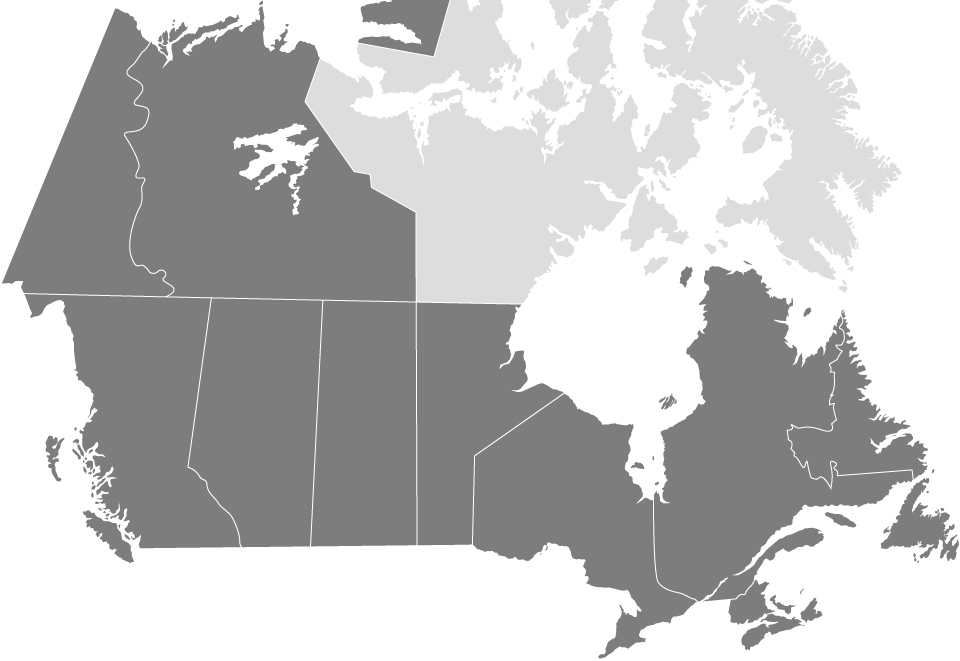
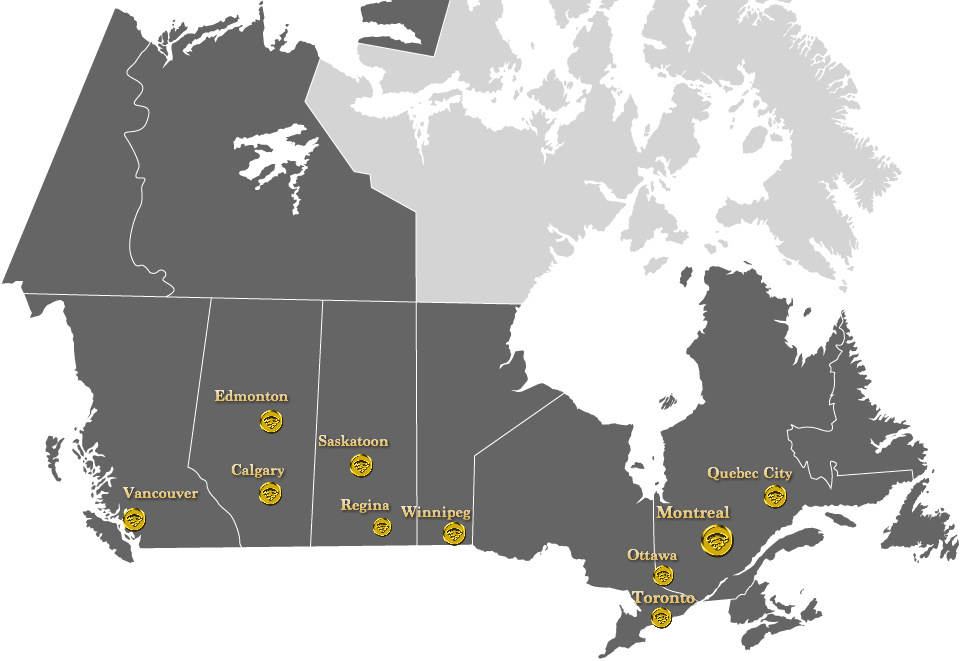
modified 'Locations' using image map

diff --git a/index.html b/index.html
@@ -35,7 +35,7 @@
 
 <body id="page-top" data-spy="scroll" data-target=".navbar-fixed-top">
 
-	<!-- Navigation -->
+    <!-- Navigation -->
     <nav class="navbar navbar-custom navbar-fixed-top" role="navigation">
         <div class="container">
             <div class="navbar-header">
@@ -160,7 +160,6 @@
                 <div class="col-lg-12 clickable text-center">
                     <a class="btn-light btn-block btn-lg" data-toggle="modal" data-target="#register"><h3><b>Apply for connection</b></h3></a>
                     <!--<h3>Connection in 1 day
-
                     </h3>
                     <p>Our experts will install additional equipment to your current Wi-Fi network, set up and provide access to your personal account, and all this in 1 day!</p>
                 </div>--> 
@@ -253,14 +252,32 @@
     <section id = "locations" class="locations">
         <div class="container">
             <div class="row text-center">
-                <div class="col-lg-10 col-lg-offset-1">
+                <div class="col-lg-12 col-xs-12">
+                    <br>
+                    <!-- map -->
+                    <img id="map" alt="" src="img/canada.jpg" usemap="#canadamap" width="100%" height="auto" alt=""/>
+                    <map id="canadamap" name="canadamap">
+                    <area title="Yukon" alt="yukon" coords="2,283,115,8,137,18,148,42,125,73,142,88,132,103,148,112,141,128,123,131,123,134,138,165,133,180,143,180,140,184,139,203,126,241,133,268,143,267,152,276,161,271,163,274,162,279,173,290,166,296,25,292,3,283" shape="poly" href="#yukon" /> 
+                    <area title="British Columbia" alt="British Columbia" coords="25,294,210,298,185,469,205,482,222,512,237,534,239,547,138,548,131,565,83,527,84,476,54,482,37,436,74,428,72,333,59,302,30,322,25,295" shape="poly" href="#britishcolumbia" />
+                    <area title="Alberta" alt="Alberta" coords="212,299,321,301,310,547,241,547,240,532,206,479,189,465,212,299" shape="poly" href="#alberta" />
+                    <area title="Northwest Territories" alt="NWT" coords="416,301,416,211,371,188,370,174,353,172,304,101,319,57,359,42,433,56,450,0,359,1,358,39,318,53,315,41,265,0,256,0,256,14,172,17,128,71,147,87,136,103,150,108,149,126,126,134,142,166,137,176,146,178,143,188,143,206,131,244,138,262,153,268,172,269,165,279,178,287,171,296,415,301,416,301,416,302" shape="poly" href="#northwestterritories" />
+                    <area title="Saskatchewan" alt="SK" coords="416,544,415,303,322,301,312,546,417,544" shape="poly" href="#saskatchewan" />
+                    <area title="Manitoba" alt="Manitoba" coords="521,304,416,302,418,544,472,544,474,453,563,393,527,376,523,349,511,349,521,304" shape="poly" href="#manitoba" />
+                    <area title="Ontario" alt="Ontario" coords="565,394,475,456,474,544,484,552,530,562,552,545,573,559,586,585,620,591,597,658,606,658,646,641,696,602,655,583,652,500,634,422,565,394" shape="poly" href="#ontario" />
+                    <area title="Quebec" alt="Quebec" coords="654,494,658,580,698,601,735,598,740,592,745,592,754,576,856,527,912,482,912,471,837,476,832,465,832,490,821,478,816,480,791,455,786,439,786,427,792,422,830,429,830,422,835,418,833,405,827,404,827,397,833,374,826,370,837,350,834,343,842,340,837,327,841,317,805,356,787,336,815,308,744,258,680,266,658,397,651,455,655,494" shape="poly" data-toggle="modal" data-target="#quebec"/>
+                    <area title="Newfoundland" alt="Newfoundland" coords="844,310,871,380,870,401,914,425,937,472,930,505,952,508,959,542,955,562,915,564,910,549,877,547,900,499,917,482,914,468,839,474,837,461,829,460,830,484,822,475,812,473,808,459,800,460,790,431,835,432,839,406,835,393,834,363,843,351,845,331,842,328,844,312" shape="poly" href="#newfoundland" />
+                    <area title="New brunswick" alt="New brunswick" coords="730,622,728,610,731,599,737,599,741,595,746,594,755,579,760,584,770,582,763,592,768,608,774,611,740,625,730,622" shape="poly" href="#newbrunswick" />
+                    <area title="Prince Edward Island" alt="PEI" coords="785,603,794,605,789,617,768,598,775,594,787,604" shape="poly" href="#pei" />
+                    <area title="Nova scotia" alt="Nova Scotia" coords="751,650,825,615,803,583,799,592,800,617,790,619,783,617,771,615,761,621,738,637,740,647,751,651" shape="poly" href="#novascotia" /></map>
+                    <p><!-- end map --></p>
+                    <br>
+                <!--<div class="col-lg-10 col-lg-offset-1">
                     <br><br>
                     <h2> </h2>
                     <div class="row">
-                        <div class="col-md-4 col-sm-4">
+                        <div class="col-md-12 col-xs-12">
                             <div class="service-item">
                                 <img src="img/montreal.png" alt="montreal" height="100px" align="center">
-
                                 <h3>
                                     <strong>Official Partner</strong>
                                 </h3>
@@ -271,34 +288,29 @@
                                 </h4>
                             </div>
                         </div>
-                        <div class="col-md-4 col-sm-4">
+                        <div class="col-md-6 col-sm-6">
                             <div class="service-item">
                              <img src="img/vancouver.jpg" alt="vancouver" height="100px" align="center">
                                 <h3>
-                                    <strong></strong>
+                                    <strong>Region Representative</strong>
                                 </h3>
                                 <h4>
-                                <!--
                                 <ul class="list-unstyled" style="display: inline-block;text-align: left;">
                                     <li><i class="fa fa-phone fa-fw"></i>(514) 983-6609<b> &nbsp;&nbsp;Rustam Abdullayev</b> </li>
-                                </ul> 
-                                -->
-                                <br>
+                                </ul>
                                 </h4>
                             </div>
                         </div>
-                        <div class="col-md-4 col-sm-4">
+                        <div class="col-md-4 col-sm-6">
                             <div class="service-item">
                              <img src="img/toronto.gif" alt="toronto" height="100px" align="center">
-                                <h3>
-                                    <strong></strong>
-                                </h3>
                                 <h4>
-                                    <br>
+                                    <strong>Region Representative</strong>
+                                <p>TBD</p>
                                 </h4>
                             </div>
+                        </div>-->
                         </div>
-                    
                     </div>
                     <!-- /.row (nested) -->
                 </div>
@@ -328,7 +340,7 @@
             <div class="row">
                 <div class="col-lg-10 col-lg-offset-1 text-center">
                     <h3><strong>Social Boom</strong>
-               		</h3>
+                    </h3>
                     <h4><p>Montreal, QC Canada</p>
                      <ul class="list-unstyled" style="display: inline-block;text-align: left;">
                                     <li><i class="fa fa-phone fa-fw"></i> (514) 402-2276<b> &nbsp;&nbsp;Oleksandr Sinitsyn </b></li>
@@ -377,6 +389,35 @@
                             <li><i class="fa fa-phone fa-fw"></i> (438) 989-4485<b> &nbsp;&nbsp;Georgy Venik</b></li>
                             <li><i class="fa fa-envelope-o fa-fw"></i><b>&nbsp;&nbsp;info@socialboom.ca</b></li>
                     </ul>
+                </div>
+            </div><!-- /.modal-content -->
+        </div><!-- /.modal-dialog -->
+    </div><!-- /.modal -->
+
+    <div class = "modal fade" id ="quebec" role ="dialog">
+        <div class ="modal-dialog">
+            <div class = "modal-content">
+                <div class ="modal-header">
+                <button type="button" class="close" data-dismiss="modal" aria-label="Close"><span aria-hidden="true">&times;</span></button>
+                    
+                </div>
+                <div class = "modal-body">
+                    <div class="row text-center">
+                        <div class="col-md-12 col-xs-12">
+                            <div class="service-item">
+                                <img src="img/montreal.png" alt="montreal" height="100px" align="center">
+
+                                <h3>
+                                    <strong>Official Partner</strong>
+                                </h3>
+                                <h4>
+                                <ul class="list-unstyled" style="display: inline-block;text-align: left;">
+                                    <li><i class="fa fa-phone fa-fw"></i>(514) 777-2000 <b>&nbsp;&nbsp; Sam Karanta</b> </li>
+                                </ul>
+                                </h4>
+                            </div>
+                        </div>
+                    </div>
                 </div>
             </div><!-- /.modal-content -->
         </div><!-- /.modal-dialog -->
@@ -436,7 +477,6 @@
     <!-- Jssor slider scripts-->
     <script type="text/javascript" src="js/jssor.slider.mini.js"></script>
     <script>
-
         jQuery(document).ready(function ($) {
             var options = {
                 $AutoPlay: true,                                            
@@ -451,7 +491,6 @@
                     $Steps: 1,                                      //[Optional] Steps to go for each navigation request, default value is 1
                     $Scale: false                                   //Scales bullets navigator or not while slider scale
                 },
-
                 $BulletNavigatorOptions: {                                //[Optional] Options to specify and enable navigator or not
                     $Class: $JssorBulletNavigator$,                       //[Required] Class to create navigator instance
                     $ChanceToShow: 2,                               //[Required] 0 Never, 1 Mouse Over, 2 Always
@@ -464,11 +503,9 @@
                     $Scale: false                                   //Scales bullets navigator or not while slider scale
                 }
             };
-
             //Make the element 'slider1_container' visible before initialize jssor slider.
             $("#slider1_container").css("display", "block");
             var jssor_slider1 = new $JssorSlider$("slider1_container", options);
-
             //responsive code begin
             //you can remove responsive code if you don't want the slider scales while window resizes
             function ScaleSlider() {
@@ -480,7 +517,6 @@
                     window.setTimeout(ScaleSlider, 30);
             }
             ScaleSlider();
-
             $(window).bind("load", ScaleSlider);
             $(window).bind("resize", ScaleSlider);
             $(window).bind("orientationchange", ScaleSlider);
@@ -497,12 +533,10 @@
             $(".navbar-fixed-top").removeClass("top-nav-collapse");
         }
     });
-
     // Scrolls to the selected menu item on the page
     $(function() {
         $('a[href*=#]:not([href=#])').click(function() {
             if (location.pathname.replace(/^\//, '') == this.pathname.replace(/^\//, '') || location.hostname == this.hostname) {
-
                 var target = $(this.hash);
                 target = target.length ? target : $('[name=' + this.hash.slice(1) + ']');
                 if (target.length) {
@@ -514,12 +548,40 @@
             }
         });
     });
-
     // Closes the Responsive Menu on Menu Item Click
     $('.navbar-collapse ul li a').click(function() {
         $('.navbar-toggle:visible').click();
     });
     
+    //resizable image map
+    window.onload = function () {
+        var ImageMap = function (map) {
+                var n,
+                    areas = map.getElementsByTagName('area'),
+                    len = areas.length,
+                    coords = [],
+                    previousWidth = 1080;
+                for (n = 0; n < len; n++) {
+                    coords[n] = areas[n].coords.split(',');
+                }
+                this.resize = function () {
+                    var n, m, clen,
+                        x = document.body.clientWidth / previousWidth;
+                    for (n = 0; n < len; n++) {
+                        clen = coords[n].length;
+                        for (m = 0; m < clen; m++) {
+                            coords[n][m] *= x;
+                        }
+                        areas[n].coords = coords[n].join(',');
+                    }
+                    previousWidth = document.body.clientWidth;
+                    return true;
+                };
+                window.onresize = this.resize;
+            },
+            imageMap = new ImageMap(document.getElementById('canadamap'));
+        imageMap.resize();
+    }
     </script>
 
 </body>

diff --git a/fr.html b/fr.html
@@ -254,52 +254,65 @@
     <section id = "locations" class="locations">
         <div class="container">
             <div class="row text-center">
-                <div class="col-lg-10 col-lg-offset-1">
+                <div class="col-lg-12 col-xs-12">
+                    <br>
+                    <!-- map -->
+                    <img id="map" alt="" src="img/canada.jpg" usemap="#canadamap" width="100%" height="auto" alt=""/>
+                    <map id="canadamap" name="canadamap">
+                    <area title="Yukon" alt="yukon" coords="2,283,115,8,137,18,148,42,125,73,142,88,132,103,148,112,141,128,123,131,123,134,138,165,133,180,143,180,140,184,139,203,126,241,133,268,143,267,152,276,161,271,163,274,162,279,173,290,166,296,25,292,3,283" shape="poly" href="#yukon" /> 
+                    <area title="British Columbia" alt="British Columbia" coords="25,294,210,298,185,469,205,482,222,512,237,534,239,547,138,548,131,565,83,527,84,476,54,482,37,436,74,428,72,333,59,302,30,322,25,295" shape="poly" href="#britishcolumbia" />
+                    <area title="Alberta" alt="Alberta" coords="212,299,321,301,310,547,241,547,240,532,206,479,189,465,212,299" shape="poly" href="#alberta" />
+                    <area title="Northwest Territories" alt="NWT" coords="416,301,416,211,371,188,370,174,353,172,304,101,319,57,359,42,433,56,450,0,359,1,358,39,318,53,315,41,265,0,256,0,256,14,172,17,128,71,147,87,136,103,150,108,149,126,126,134,142,166,137,176,146,178,143,188,143,206,131,244,138,262,153,268,172,269,165,279,178,287,171,296,415,301,416,301,416,302" shape="poly" href="#northwestterritories" />
+                    <area title="Saskatchewan" alt="SK" coords="416,544,415,303,322,301,312,546,417,544" shape="poly" href="#saskatchewan" />
+                    <area title="Manitoba" alt="Manitoba" coords="521,304,416,302,418,544,472,544,474,453,563,393,527,376,523,349,511,349,521,304" shape="poly" href="#manitoba" />
+                    <area title="Ontario" alt="Ontario" coords="565,394,475,456,474,544,484,552,530,562,552,545,573,559,586,585,620,591,597,658,606,658,646,641,696,602,655,583,652,500,634,422,565,394" shape="poly" href="#ontario" />
+                    <area title="Quebec" alt="Quebec" coords="654,494,658,580,698,601,735,598,740,592,745,592,754,576,856,527,912,482,912,471,837,476,832,465,832,490,821,478,816,480,791,455,786,439,786,427,792,422,830,429,830,422,835,418,833,405,827,404,827,397,833,374,826,370,837,350,834,343,842,340,837,327,841,317,805,356,787,336,815,308,744,258,680,266,658,397,651,455,655,494" shape="poly" data-toggle="modal" data-target="#quebec"/>
+                    <area title="Newfoundland" alt="Newfoundland" coords="844,310,871,380,870,401,914,425,937,472,930,505,952,508,959,542,955,562,915,564,910,549,877,547,900,499,917,482,914,468,839,474,837,461,829,460,830,484,822,475,812,473,808,459,800,460,790,431,835,432,839,406,835,393,834,363,843,351,845,331,842,328,844,312" shape="poly" href="#newfoundland" />
+                    <area title="New brunswick" alt="New brunswick" coords="730,622,728,610,731,599,737,599,741,595,746,594,755,579,760,584,770,582,763,592,768,608,774,611,740,625,730,622" shape="poly" href="#newbrunswick" />
+                    <area title="Prince Edward Island" alt="PEI" coords="785,603,794,605,789,617,768,598,775,594,787,604" shape="poly" href="#pei" />
+                    <area title="Nova scotia" alt="Nova Scotia" coords="751,650,825,615,803,583,799,592,800,617,790,619,783,617,771,615,761,621,738,637,740,647,751,651" shape="poly" href="#novascotia" /></map>
+                    <p><!-- end map --></p>
+                    <br>
+                <!--<div class="col-lg-10 col-lg-offset-1">
                     <br><br>
-                    <h2></h2>
+                    <h2> </h2>
                     <div class="row">
-                        <div class="col-md-4 col-sm-4">
+                        <div class="col-md-12 col-xs-12">
                             <div class="service-item">
                                 <img src="img/montreal.png" alt="montreal" height="100px" align="center">
-
                                 <h3>
-                                    <strong>Partenaire officiel</strong>
+                                    <strong>Official Partner</strong>
                                 </h3>
                                 <h4>
                                 <ul class="list-unstyled" style="display: inline-block;text-align: left;">
-                                    <li><i class="fa fa-phone fa-fw"></i> (514) 777-2000 <b>&nbsp;&nbsp; Sam Karanta</b></li>
+                                    <li><i class="fa fa-phone fa-fw"></i>(514) 777-2000 <b>&nbsp;&nbsp; Sam Karanta</b> </li>
                                 </ul>
                                 </h4>
                             </div>
                         </div>
-                        <div class="col-md-4 col-sm-4">
+                        <div class="col-md-6 col-sm-6">
                             <div class="service-item">
                              <img src="img/vancouver.jpg" alt="vancouver" height="100px" align="center">
                                 <h3>
-                                    <strong></strong>
+                                    <strong>Region Representative</strong>
                                 </h3>
                                 <h4>
-                                <!--
                                 <ul class="list-unstyled" style="display: inline-block;text-align: left;">
                                     <li><i class="fa fa-phone fa-fw"></i>(514) 983-6609<b> &nbsp;&nbsp;Rustam Abdullayev</b> </li>
-                                </ul> 
-                                -->
-                                <br>
+                                </ul>
                                 </h4>
                             </div>
                         </div>
-                        <div class="col-md-4 col-sm-4">
+                        <div class="col-md-4 col-sm-6">
                             <div class="service-item">
                              <img src="img/toronto.gif" alt="toronto" height="100px" align="center">
-                                <h3>
-                                    <strong></strong>
-                                </h3>
                                 <h4>
-                                    <br>
+                                    <strong>Region Representative</strong>
+                                <p>TBD</p>
                                 </h4>
                             </div>
+                        </div>-->
                         </div>
-                    
                     </div>
                     <!-- /.row (nested) -->
                 </div>
@@ -307,8 +320,6 @@
             </div>
         </div>
     </section>
-    
-
     <!-- Contact -->
     <aside id = "contact" class="contact">
         <div class="container">
@@ -379,6 +390,35 @@
                             <li><i class="fa fa-phone fa-fw"></i> (438) 989-4485<b> &nbsp;&nbsp;Georgy Venik</b></li>
                             <li><i class="fa fa-envelope-o fa-fw"></i><b>&nbsp;&nbsp;info@socialboom.ca</b></li>
                     </ul>
+                </div>
+            </div><!-- /.modal-content -->
+        </div><!-- /.modal-dialog -->
+    </div><!-- /.modal -->
+
+    <div class = "modal fade" id ="quebec" role ="dialog">
+        <div class ="modal-dialog">
+            <div class = "modal-content">
+                <div class ="modal-header">
+                <button type="button" class="close" data-dismiss="modal" aria-label="Close"><span aria-hidden="true">&times;</span></button>
+                    
+                </div>
+                <div class = "modal-body">
+                    <div class="row text-center">
+                        <div class="col-md-12 col-xs-12">
+                            <div class="service-item">
+                                <img src="img/montreal.png" alt="montreal" height="100px" align="center">
+
+                                <h3>
+                                    <strong>Official Partner</strong>
+                                </h3>
+                                <h4>
+                                <ul class="list-unstyled" style="display: inline-block;text-align: left;">
+                                    <li><i class="fa fa-phone fa-fw"></i>(514) 777-2000 <b>&nbsp;&nbsp; Sam Karanta</b> </li>
+                                </ul>
+                                </h4>
+                            </div>
+                        </div>
+                    </div>
                 </div>
             </div><!-- /.modal-content -->
         </div><!-- /.modal-dialog -->
@@ -522,6 +562,35 @@
         $('.navbar-toggle:visible').click();
     });
     
+    //resizable image map
+    window.onload = function () {
+        var ImageMap = function (map) {
+                var n,
+                    areas = map.getElementsByTagName('area'),
+                    len = areas.length,
+                    coords = [],
+                    previousWidth = 1080;
+                for (n = 0; n < len; n++) {
+                    coords[n] = areas[n].coords.split(',');
+                }
+                this.resize = function () {
+                    var n, m, clen,
+                        x = document.body.clientWidth / previousWidth;
+                    for (n = 0; n < len; n++) {
+                        clen = coords[n].length;
+                        for (m = 0; m < clen; m++) {
+                            coords[n][m] *= x;
+                        }
+                        areas[n].coords = coords[n].join(',');
+                    }
+                    previousWidth = document.body.clientWidth;
+                    return true;
+                };
+                window.onresize = this.resize;
+            },
+            imageMap = new ImageMap(document.getElementById('canadamap'));
+        imageMap.resize();
+    }
     </script>
 
 </body>
